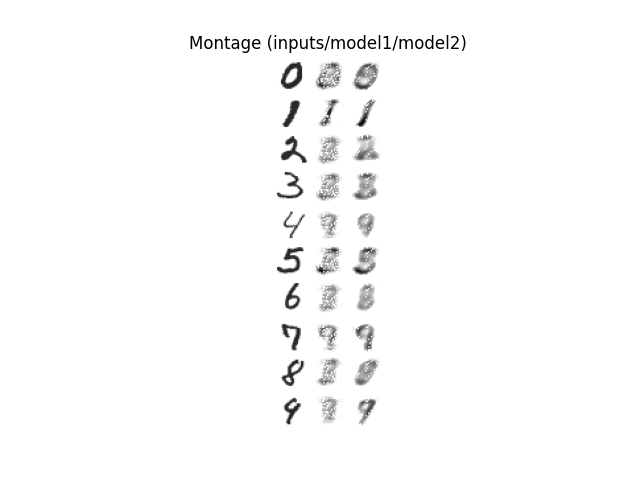
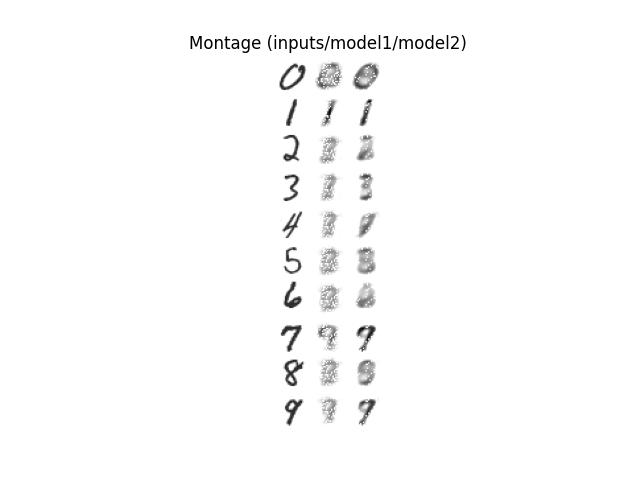
Homework3: Change the montage for Autoencoder

diff --git a/homework3/Autoencoder.py b/homework3/Autoencoder.py
@@ -150,7 +150,7 @@ def main(args):
 
     model1 = load_network(1, args.outdir)
     model2 = load_network(2, args.outdir)
-    create_montage(mnist, model1, model2, args.outdir, test_seed=111)
+    create_montage(mnist, model1, model2, args.outdir)
 
 
 if __name__ == "__main__":
